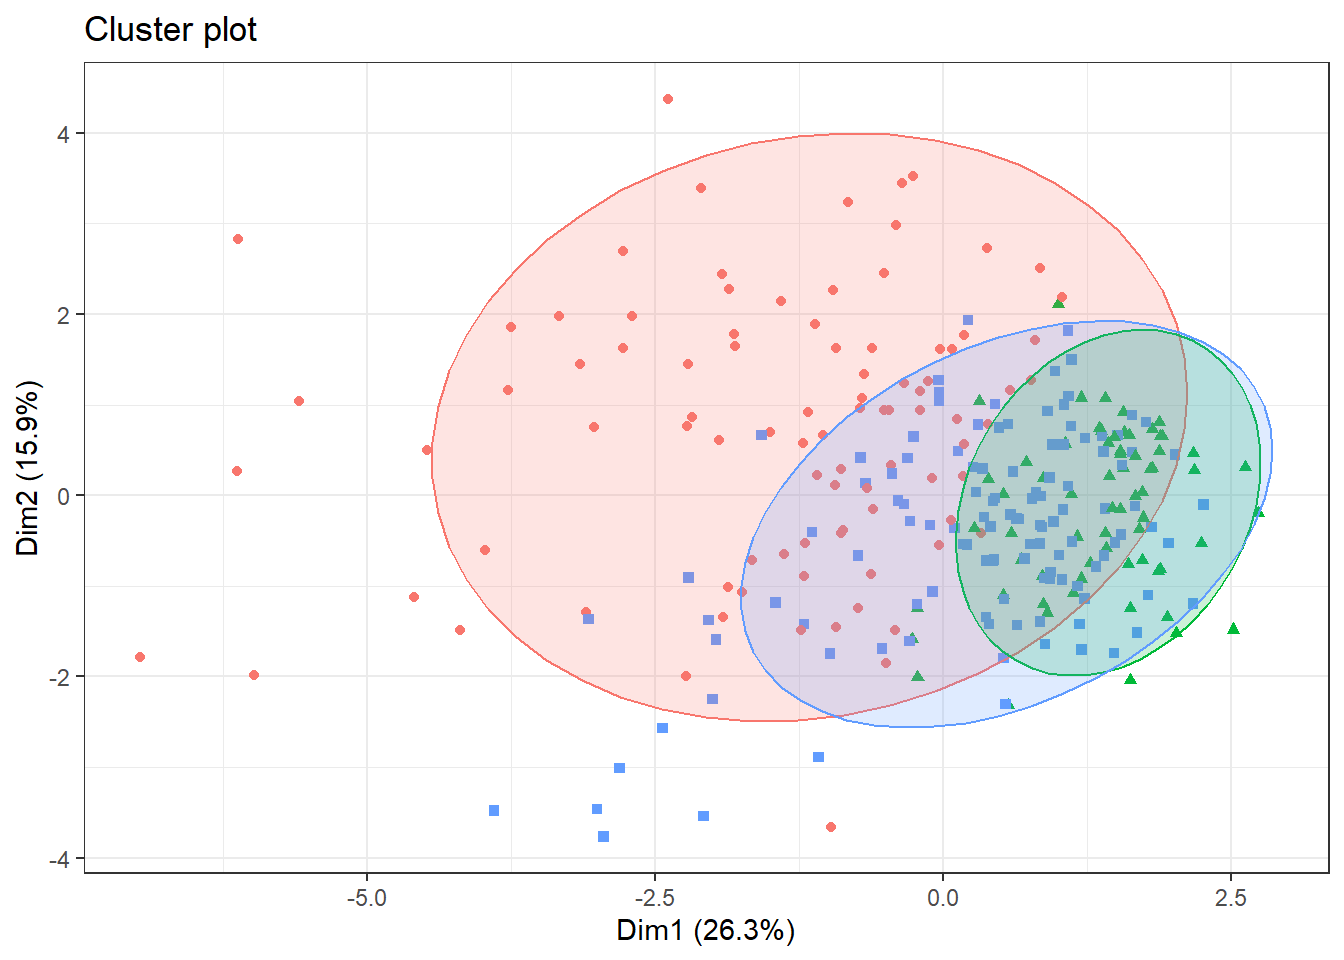
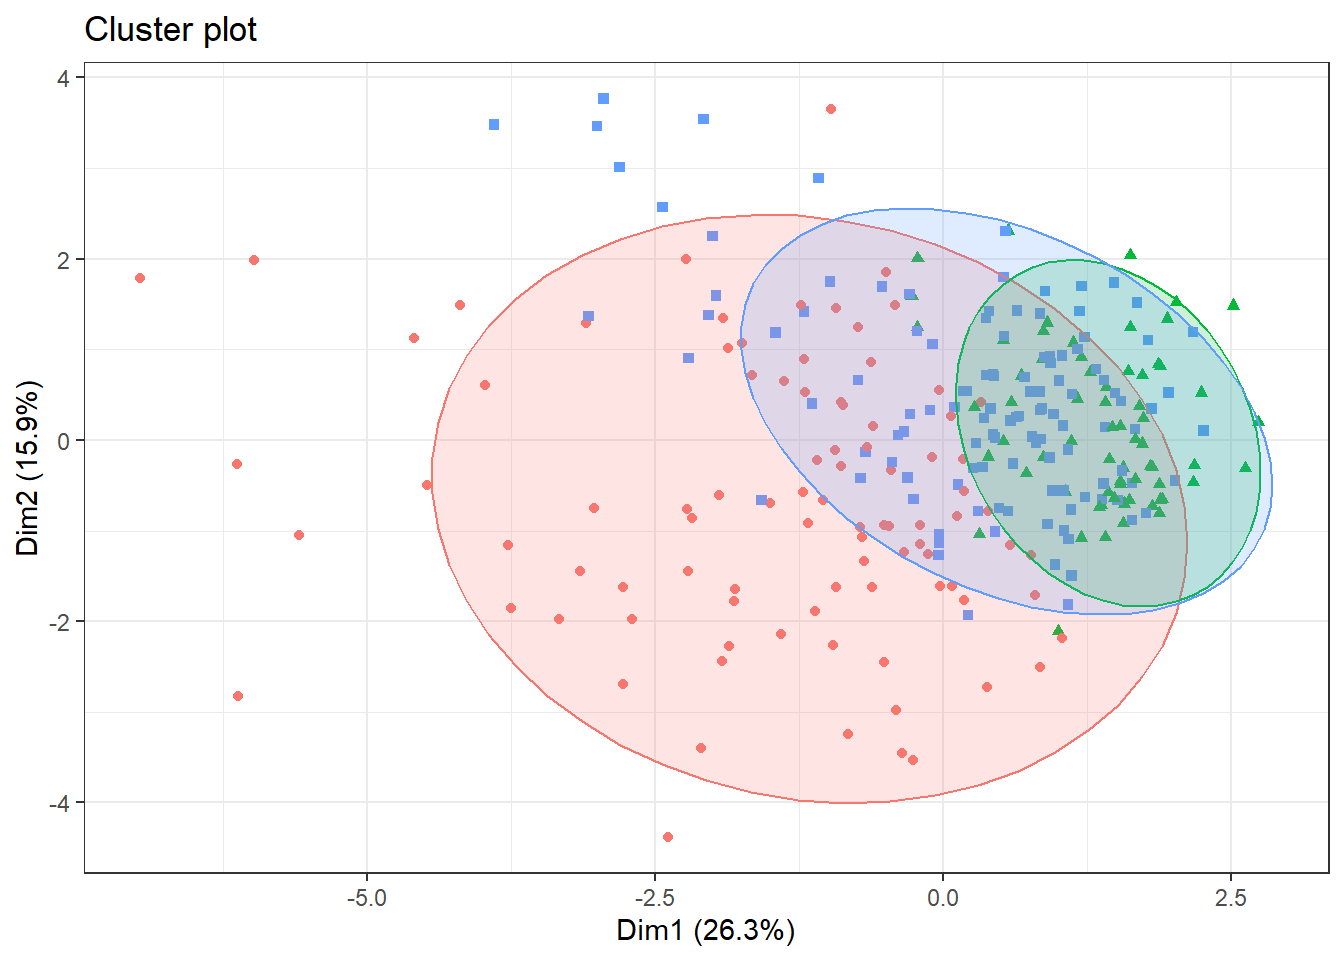
comenzar acp y entender clusters

diff --git a/Entrega_Clustering.html b/Entrega_Clustering.html
@@ -87,12 +87,13 @@ pre > code.sourceCode > span > a:first-child::before { text-decoration: underlin
   <li><a href="#resumen-numérico-de-las-variables" id="toc-resumen-numérico-de-las-variables" class="nav-link" data-scroll-target="#resumen-numérico-de-las-variables">Resumen numérico de las variables</a></li>
   <li><a href="#análisis-de-normalidad-multivariante" id="toc-análisis-de-normalidad-multivariante" class="nav-link" data-scroll-target="#análisis-de-normalidad-multivariante">Análisis de normalidad multivariante</a></li>
   </ul></li>
-  <li><a href="#clusterning" id="toc-clusterning" class="nav-link" data-scroll-target="#clusterning">Clusterning</a>
+  <li><a href="#clustering" id="toc-clustering" class="nav-link" data-scroll-target="#clustering">Clustering</a>
   <ul>
   <li><a href="#k-means" id="toc-k-means" class="nav-link" data-scroll-target="#k-means">K-means</a></li>
   <li><a href="#k-medoids-pam" id="toc-k-medoids-pam" class="nav-link" data-scroll-target="#k-medoids-pam">K-medoids (PAM)</a></li>
   <li><a href="#dendograma" id="toc-dendograma" class="nav-link" data-scroll-target="#dendograma">Dendograma</a></li>
   </ul></li>
+  <li><a href="#acp" id="toc-acp" class="nav-link" data-scroll-target="#acp">ACP</a></li>
   </ul>
 </nav>
 </div>
@@ -272,8 +273,8 @@ W = 0.83366, p-value &lt; 2.2e-16</code></pre>
 <p>Obtenemos un p-valor muy pequeño, prácticamente 0, entonces, rechazamos la hipótesis nula y concluimos que no hay normalidad multivariante, es decir, almenos una variable individual no se distribuye normalmente.</p>
 </section>
 </section>
-<section id="clusterning" class="level1">
-<h1>Clusterning</h1>
+<section id="clustering" class="level1">
+<h1>Clustering</h1>
 <p>En primer lugar vamos a tipificar o escalar nuestros datos para que esten todos a la misma escala:</p>
 <div class="cell">
 <div class="sourceCode cell-code" id="cb9"><pre class="sourceCode r code-with-copy"><code class="sourceCode r"><span id="cb9-1"><a href="#cb9-1" aria-hidden="true" tabindex="-1"></a>datos2 <span class="ot">&lt;-</span> datos_quant <span class="sc">%&gt;%</span> <span class="fu">scale</span>()</span></code><button title="Copy to Clipboard" class="code-copy-button"><i class="bi"></i></button></pre></div>
@@ -307,10 +308,9 @@ W = 0.83366, p-value &lt; 2.2e-16</code></pre>
 <p><img src="Entrega_Clustering_files/figure-html/unnamed-chunk-13-1.png" class="img-fluid" width="672"></p>
 </div>
 </div>
-<p>Observemos que el número óptimo para aplicar el kmeans és <span class="math inline">\(4\)</span>, ya que con <span class="math inline">\(5\)</span> el error aumenta y con <span class="math inline">\(6\)</span> el error es practicamente igual que con <span class="math inline">\(4\)</span>. Por tanot procedamos a hacer un <code>kmeans()</code> con <span class="math inline">\(k=4\)</span>:</p>
 <div class="cell">
 <div class="sourceCode cell-code" id="cb14"><pre class="sourceCode r code-with-copy"><code class="sourceCode r"><span id="cb14-1"><a href="#cb14-1" aria-hidden="true" tabindex="-1"></a><span class="co">#set.seed(2312)</span></span>
-<span id="cb14-2"><a href="#cb14-2" aria-hidden="true" tabindex="-1"></a>km_clusters <span class="ot">&lt;-</span> <span class="fu">kmeans</span>(<span class="at">x =</span> cX, <span class="at">centers =</span> <span class="dv">3</span>, <span class="at">nstart =</span> <span class="dv">100</span>)</span>
+<span id="cb14-2"><a href="#cb14-2" aria-hidden="true" tabindex="-1"></a>km_clusters <span class="ot">&lt;-</span> <span class="fu">kmeans</span>(<span class="at">x =</span> cX, <span class="at">centers =</span> <span class="dv">4</span>, <span class="at">nstart =</span> <span class="dv">78</span>)</span>
 <span id="cb14-3"><a href="#cb14-3" aria-hidden="true" tabindex="-1"></a></span>
 <span id="cb14-4"><a href="#cb14-4" aria-hidden="true" tabindex="-1"></a><span class="fu">fviz_cluster</span>(<span class="at">object =</span> km_clusters, <span class="at">data =</span> cX, <span class="at">show.clust.cent =</span> <span class="cn">TRUE</span>, <span class="at">geom =</span><span class="st">"point"</span>,</span>
 <span id="cb14-5"><a href="#cb14-5" aria-hidden="true" tabindex="-1"></a> <span class="at">ellipse.type =</span> <span class="st">"euclid"</span>, <span class="at">star.plot =</span> <span class="cn">TRUE</span>, <span class="at">repel =</span> <span class="cn">TRUE</span>) <span class="sc">+</span></span>
@@ -324,31 +324,33 @@ W = 0.83366, p-value &lt; 2.2e-16</code></pre>
 <div class="cell">
 <div class="sourceCode cell-code" id="cb15"><pre class="sourceCode r code-with-copy"><code class="sourceCode r"><span id="cb15-1"><a href="#cb15-1" aria-hidden="true" tabindex="-1"></a>km_clusters</span></code><button title="Copy to Clipboard" class="code-copy-button"><i class="bi"></i></button></pre></div>
 <div class="cell-output cell-output-stdout">
-<pre><code>K-means clustering with 3 clusters of sizes 42, 172, 62
+<pre><code>K-means clustering with 4 clusters of sizes 33, 65, 18, 160
 
 Cluster means:
-      N_Days        Age  Bilirubin Cholesterol     Albumin     Copper
-1 -0.2546448 -0.2545987  1.2382451   1.4602861 -0.04211999  0.8032124
-2  0.3710111 -0.2384028 -0.4226714  -0.2394504  0.35876330 -0.4164815
-3 -0.8567552  0.8338456  0.3337611  -0.3249442 -0.96674595  0.6112887
-      Alk_Phos       SGOT Tryglicerides  Platelets Prothrombin
-1  0.925083251  0.9034874     1.2272678  0.3890122   0.1182713
-2 -0.222970659 -0.2934388    -0.2586557  0.1226895  -0.3315874
-3 -0.008105534  0.2020161    -0.1138141 -0.6038889   0.8397685
+      N_Days        Age   Bilirubin Cholesterol    Albumin     Copper
+1 -0.8145378 -0.2252394  1.97179303  1.65776521 -0.4367999  1.1626519
+2 -0.6848078  0.9183716  0.08563146 -0.30089006 -0.7830395  0.3721280
+3  0.9759352  0.0137912 -0.26571723 -0.05600686  0.1066937  0.3078817
+4  0.3364089 -0.3281844 -0.41157691 -0.21337671  0.3961967 -0.4256106
+    Alk_Phos        SGOT Tryglicerides  Platelets Prothrombin
+1  0.2480136  1.05417723     1.2717643  0.1143846   0.4245988
+2 -0.1693871  0.08382329    -0.2560743 -0.5564107   0.6666422
+3  3.0636206  0.10153560     0.2735120  0.4057155   0.1135486
+4 -0.3269966 -0.26290002    -0.1890413  0.1568070  -0.3711711
 
 Clustering vector:
-  [1] 3 2 3 3 2 2 2 2 3 2 3 2 2 2 3 3 2 3 2 3 1 1 2 1 3 3 2 3 1 2 3 2 1 2 3 2 2
- [38] 2 2 1 2 1 2 2 1 3 1 1 3 2 2 2 3 1 3 2 2 1 2 1 2 2 2 1 1 3 3 3 2 3 1 1 2 2
- [75] 2 1 2 2 2 2 3 3 2 3 3 2 2 3 2 2 3 2 2 3 2 2 2 2 2 2 2 2 1 1 2 2 1 3 2 2 2
-[112] 2 1 3 2 2 2 2 2 2 1 3 2 2 2 2 1 2 2 1 3 2 3 2 3 2 1 2 2 2 2 2 3 2 3 1 2 2
-[149] 2 2 2 2 2 2 2 2 2 1 2 3 1 2 2 1 2 1 2 2 2 2 2 2 2 2 2 2 2 2 3 2 2 2 2 2 1
-[186] 1 2 3 2 3 3 2 2 2 2 2 3 2 3 2 3 2 1 2 3 3 2 1 3 3 1 2 2 1 2 2 2 2 2 3 2 2
-[223] 2 2 2 3 3 2 2 3 2 2 3 3 2 2 2 2 2 2 2 2 1 2 2 3 2 2 2 2 2 3 2 2 2 2 1 3 1
-[260] 2 2 3 2 2 2 2 3 2 1 2 2 2 3 3 2 1
+  [1] 2 3 2 2 4 4 4 4 2 4 2 4 3 4 2 1 4 2 4 2 1 3 4 1 1 1 3 2 3 3 2 4 3 4 2 4 3
+ [38] 3 4 3 4 3 4 4 3 3 3 3 3 3 4 4 2 1 2 4 4 4 4 1 4 4 4 1 1 1 2 2 4 2 1 4 2 4
+ [75] 4 1 4 4 4 4 2 2 4 2 2 4 4 2 4 4 2 4 4 2 4 4 4 4 2 2 4 4 4 1 4 4 1 2 4 4 4
+[112] 4 1 2 4 4 4 4 4 4 1 2 4 4 4 4 1 4 2 1 2 4 2 4 2 4 1 4 4 4 4 4 2 4 2 1 4 4
+[149] 4 4 4 4 4 4 4 4 4 1 4 2 1 2 4 1 4 1 4 4 2 4 4 4 4 4 4 4 4 4 2 4 4 4 4 4 1
+[186] 1 4 2 4 2 2 4 4 4 2 4 2 4 2 4 2 4 1 4 2 2 4 1 2 2 1 4 4 1 4 4 4 4 2 2 4 4
+[223] 4 4 4 2 2 4 4 2 4 4 2 2 2 4 4 4 4 4 4 4 4 4 4 1 4 4 4 4 4 2 4 2 4 4 4 2 1
+[260] 4 4 2 4 4 4 4 2 4 3 4 4 4 2 2 4 1
 
 Within cluster sum of squares by cluster:
-[1] 747.2106 942.1056 573.4397
- (between_SS / total_SS =  25.2 %)
+[1] 569.8545 496.5778 168.6651 824.1182
+ (between_SS / total_SS =  31.9 %)
 
 Available components:
 
@@ -398,6 +400,9 @@ of ggplot2 3.3.4.
 </div>
 </div>
 </section>
+</section>
+<section id="acp" class="level1">
+<h1>ACP</h1>
 </section>
 
 </main>
